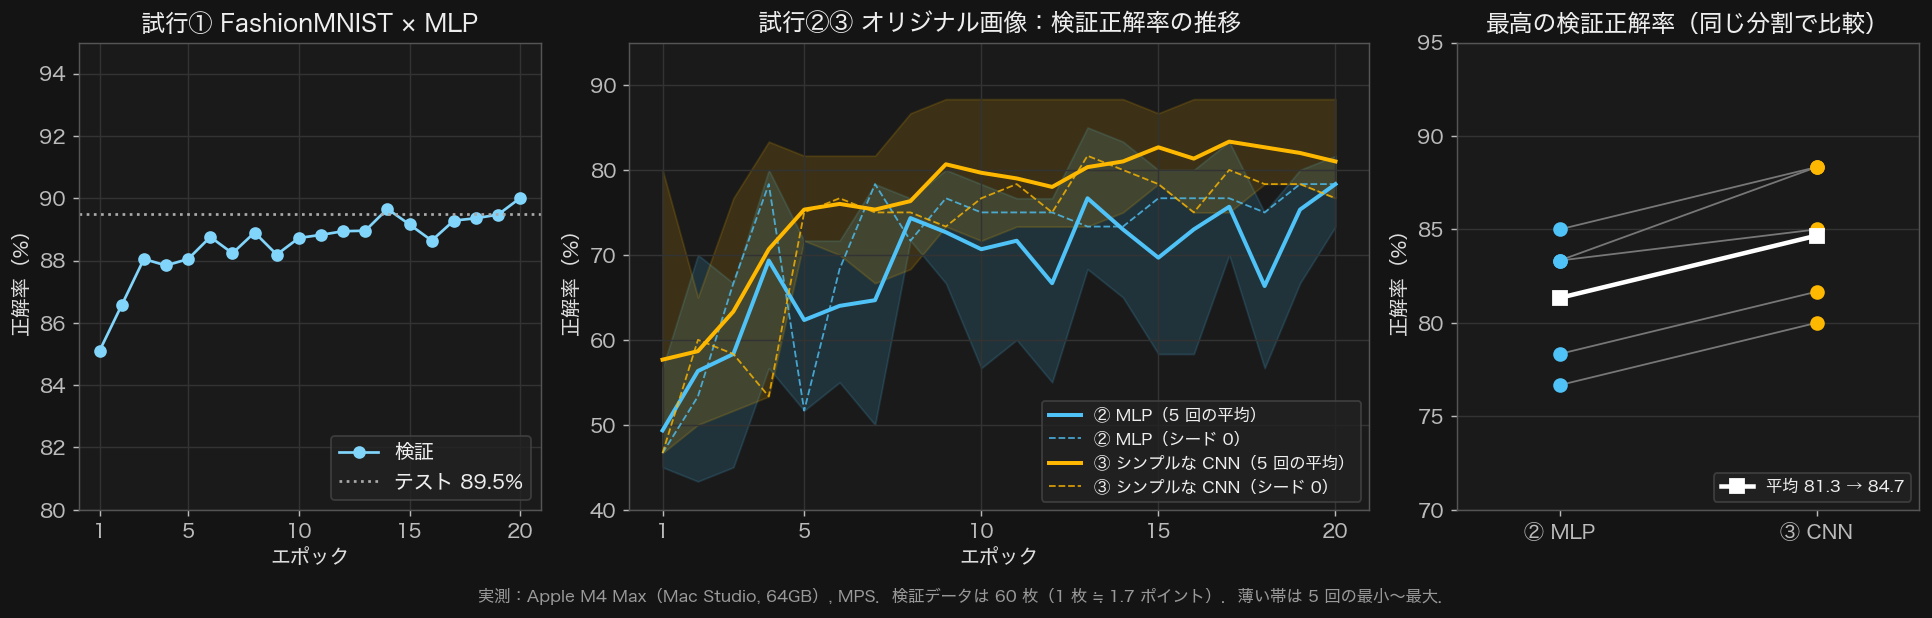
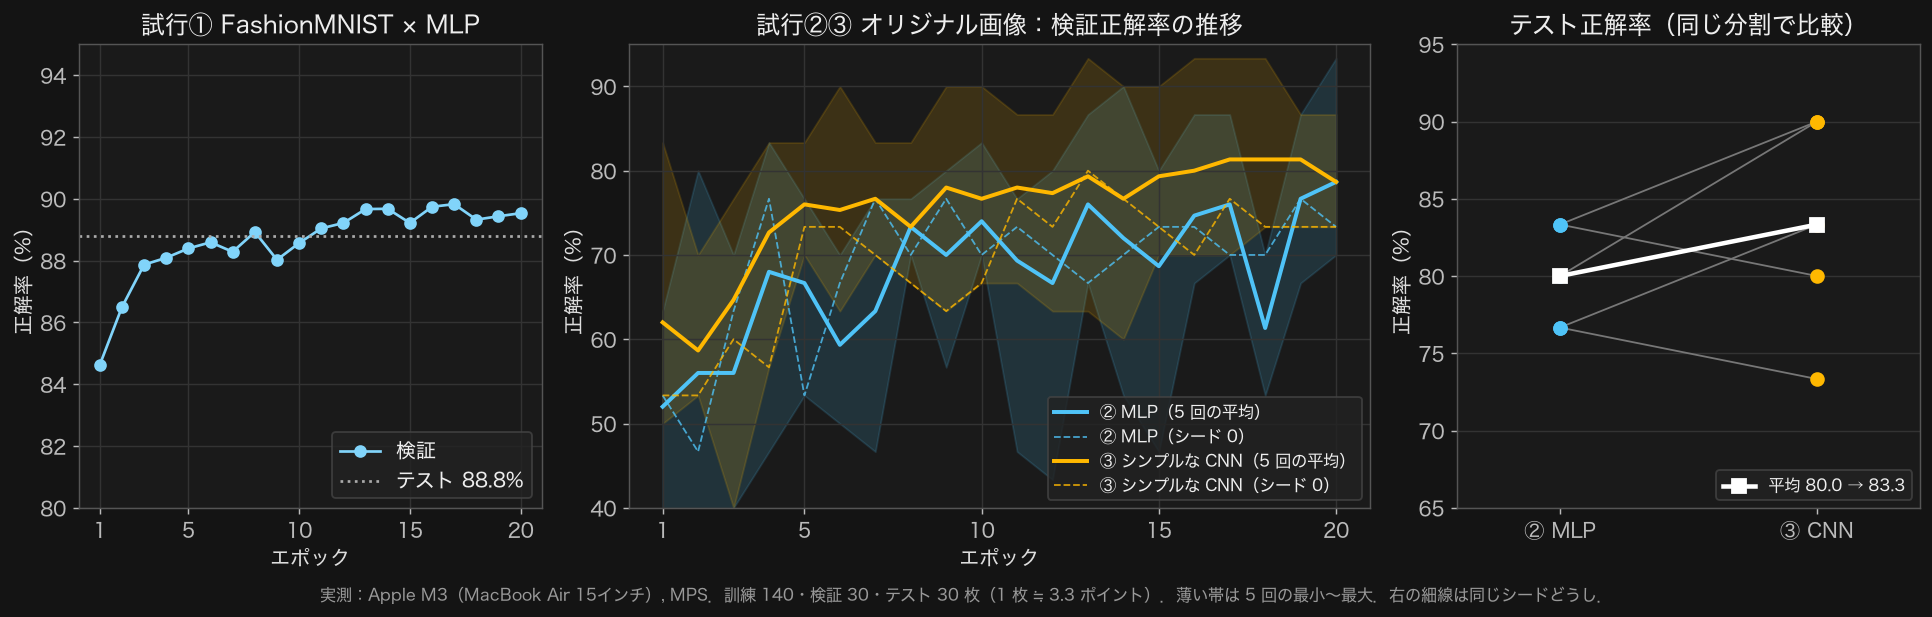
GW3 試行②③でもテストデータで評価し、想定値と課題3を実測に合わせる
- ex0_2・ex0_3 に⑫（カード H）のセルを追加し、記録セルは全試行でテスト正解率を残す
- 授業ページの「⑫はない」「検証は60枚」を直し、記録表にテスト正解率の列を追加
- 想定値の表と図を 70/15/15 分割の実測（MacBook Air M3、②③はシード0〜4）に差し替え
- 課題3を「CNN が有利と考えられる理由と、結果がそれを支持したか」に変更

diff --git a/docs/aitd1_week_1.html b/docs/aitd1_week_1.html
@@ -755,7 +755,7 @@ a.sub-item:hover {
       <table style="font-size:0.85rem">
         <tr><th style="width:4rem">試行</th><th>ファイル（<code>course1/day1/</code>）</th><th>データ × モデル</th><th>カード</th></tr>
         <tr><td><strong style="color:#4FC3F7">①</strong></td><td><code>ex0_1_mlp_fashion.ipynb</code></td><td>FashionMNIST（衣類 10 クラス）× MLP</td><td>A〜L を①〜⑫に貼る</td></tr>
-        <tr><td><strong style="color:#FFB800">②</strong></td><td><code>ex0_2_mlp_original.ipynb</code></td><td><strong>オリジナル画像</strong>（2 クラス × 100 枚）× MLP</td><td>①と同じカードを貼り、5つだけ M〜Q（⑫はない）</td></tr>
+        <tr><td><strong style="color:#FFB800">②</strong></td><td><code>ex0_2_mlp_original.ipynb</code></td><td><strong>オリジナル画像</strong>（2 クラス × 100 枚）× MLP</td><td>①と同じカードを貼り、5つだけ M〜Q に差し替える</td></tr>
         <tr><td><strong style="color:#B388FF">③</strong></td><td><code>ex0_3_cnn_original.ipynb</code></td><td><strong>オリジナル画像</strong> × <strong>シンプルな CNN</strong></td><td>②と同じカードを貼り、1つだけ R</td></tr>
       </table>
       <p style="font-size:0.85rem;color:#ccc;margin-top:0.5rem">②と③はデータが同じでモデルだけが違う。</p>
@@ -1339,25 +1339,25 @@ model</pre>
     <div class="card group">
       <div class="card-header"><h3>結果を記録する</h3></div>
       <table style="font-size:0.85rem">
-        <tr><th>試行</th><th>検証正解率（最高／最終）</th><th>学習時間</th><th>学習曲線の形</th></tr>
-        <tr><td>① FashionMNIST × MLP</td><td></td><td></td><td></td></tr>
-        <tr><td>② オリジナル画像 × MLP</td><td></td><td></td><td></td></tr>
-        <tr><td>③ オリジナル画像 × CNN</td><td></td><td></td><td></td></tr>
+        <tr><th>試行</th><th>検証正解率（最高／最終）</th><th>テスト正解率</th><th>学習時間</th><th>学習曲線の形</th></tr>
+        <tr><td>① FashionMNIST × MLP</td><td></td><td></td><td></td><td></td></tr>
+        <tr><td>② オリジナル画像 × MLP</td><td></td><td></td><td></td><td></td></tr>
+        <tr><td>③ オリジナル画像 × CNN</td><td></td><td></td><td></td><td></td></tr>
       </table>
     </div>
 
     <div class="card standard">
-      <div class="card-header"><h3>想定される時間と精度（教員機 M4 Max で実測・20エポック）</h3></div>
+      <div class="card-header"><h3>想定される時間と精度（MacBook Air M3 で実測・20エポック）</h3></div>
       <table style="font-size:0.82rem">
-        <tr><th>試行</th><th>学習時間</th><th>検証正解率（最高／最終）</th></tr>
-        <tr><td>① FashionMNIST × MLP</td><td>46 秒</td><td>90.0% ／ 90.0%（テスト 89.5%）</td></tr>
-        <tr><td>② オリジナル画像 × MLP</td><td>3 秒</td><td>78.3% ／ 78.3%</td></tr>
-        <tr><td>③ オリジナル画像 × CNN</td><td>3 秒</td><td>81.7% ／ 76.7%</td></tr>
+        <tr><th>試行</th><th>学習時間</th><th>検証正解率（最高／最終）</th><th>テスト正解率</th></tr>
+        <tr><td>① FashionMNIST × MLP</td><td>98 秒</td><td>89.8% ／ 89.5%</td><td>88.8%</td></tr>
+        <tr><td>② オリジナル画像 × MLP</td><td>7 秒</td><td>76.7% ／ 73.3%</td><td>83.3%</td></tr>
+        <tr><td>③ オリジナル画像 × CNN</td><td>6 秒</td><td>80.0% ／ 73.3%</td><td>80.0%</td></tr>
       </table>
-      <p style="font-size:0.82rem;color:#999;margin-top:0.4rem">時間は機種で変わる（MacBook Air は数倍の見込み）。正解率はほぼ同じになるはず。</p>
+      <p style="font-size:0.82rem;color:#999;margin-top:0.4rem">時間は機種で変わる。正解率はほぼ同じになるはず（機種や版が違うと一致しないこともある）。</p>
       <figure style="margin:1rem 0 0">
         <img src="img/gw3_expected.png" alt="試行①②③の検証正解率の推移と、MLP と CNN の比較" style="width:100%;border-radius:10px;border:1px solid #333;display:block">
-        <figcaption style="font-size:0.78rem;color:#999;margin-top:0.4rem;text-align:center">▲ 右：乱数の種を変えた5回すべてで CNN が上回った（平均 81.3% → 84.7%）。1回だけでは逆転することもある（→ 第4回）</figcaption>
+        <figcaption style="font-size:0.78rem;color:#999;margin-top:0.4rem;text-align:center">▲ 右：乱数の種を変えた5回のテスト正解率。授業で出る1回（シード 0）では MLP が上回り、5回の平均では CNN が 3.3 ポイント（1枚分）上。この差で「CNN が良い」と言えるかは第4回で扱う</figcaption>
       </figure>
     </div>
 
@@ -1367,7 +1367,7 @@ model</pre>
       <ol style="font-size:0.9rem;padding-left:1.4rem;line-height:1.9">
         <li><strong>MLP とは何か</strong>。画像をどんな形にしてから入力するか</li>
         <li><strong>CNN とは何か</strong>。畳み込み層とプーリング層はそれぞれ何をするか</li>
-        <li>試行②と③の結果から、オリジナル画像で CNN が有利になりやすいのはなぜか</li>
+        <li>オリジナル画像で CNN が有利になると考えられるのはなぜか。試行②と③の結果はそれを支持したか</li>
       </ol>
       <p style="font-size:0.82rem;color:#999;margin-top:0.4rem">手がかり：<code>nn.Linear</code>・<code>nn.Conv2d</code>・<code>nn.MaxPool2d</code> が書かれたカードのコメント。</p>
     </div>
@@ -1376,7 +1376,7 @@ model</pre>
       <div class="card-header"><h3>討議（5分）→ プレゼン1</h3></div>
       <ol style="font-size:0.9rem;padding-left:1.4rem;line-height:1.9">
         <li>データを替えたとき、モデルを替えたとき、差し替えたのはどのセルか</li>
-        <li>②→③で何ポイント変わったか。検証は60枚（1枚 ≒ 1.7ポイント）。「上がった」と言えるか</li>
+        <li>②→③でテスト正解率は何ポイント変わったか。テストは30枚（1枚 ≒ 3.3ポイント）。「上がった」と言えるか</li>
       </ol>
       <div class="notion-submit"><div><strong>プレゼン1:</strong> 代表が結論を2分 → 他のメンバーが1分ずつ</div></div>
     </div>
